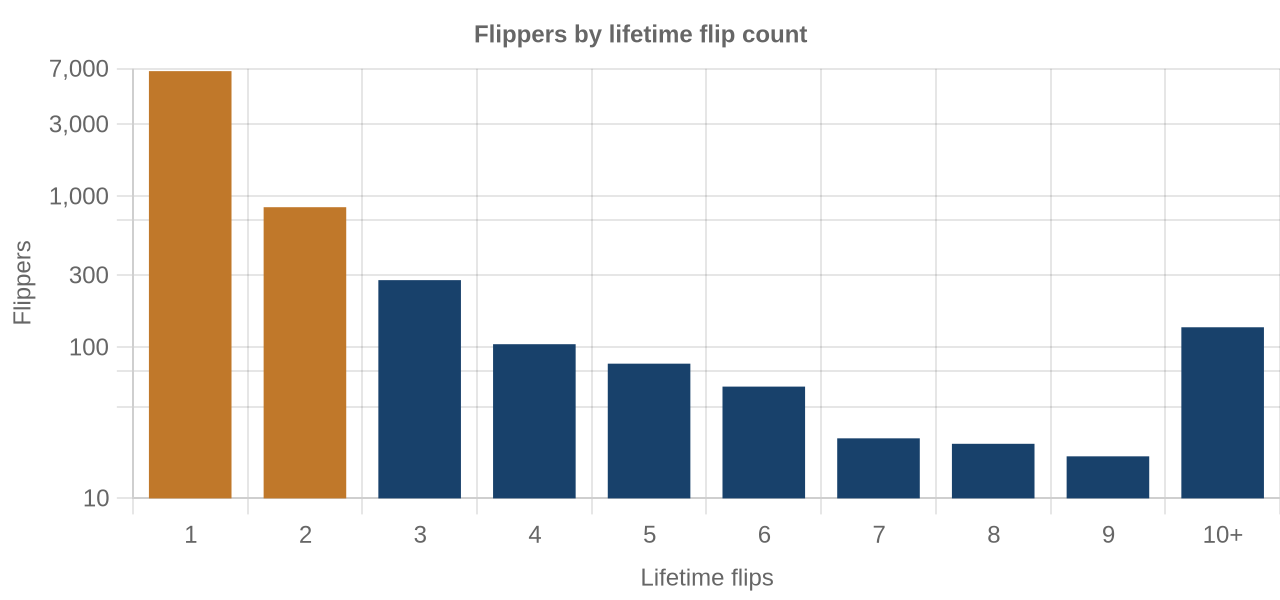
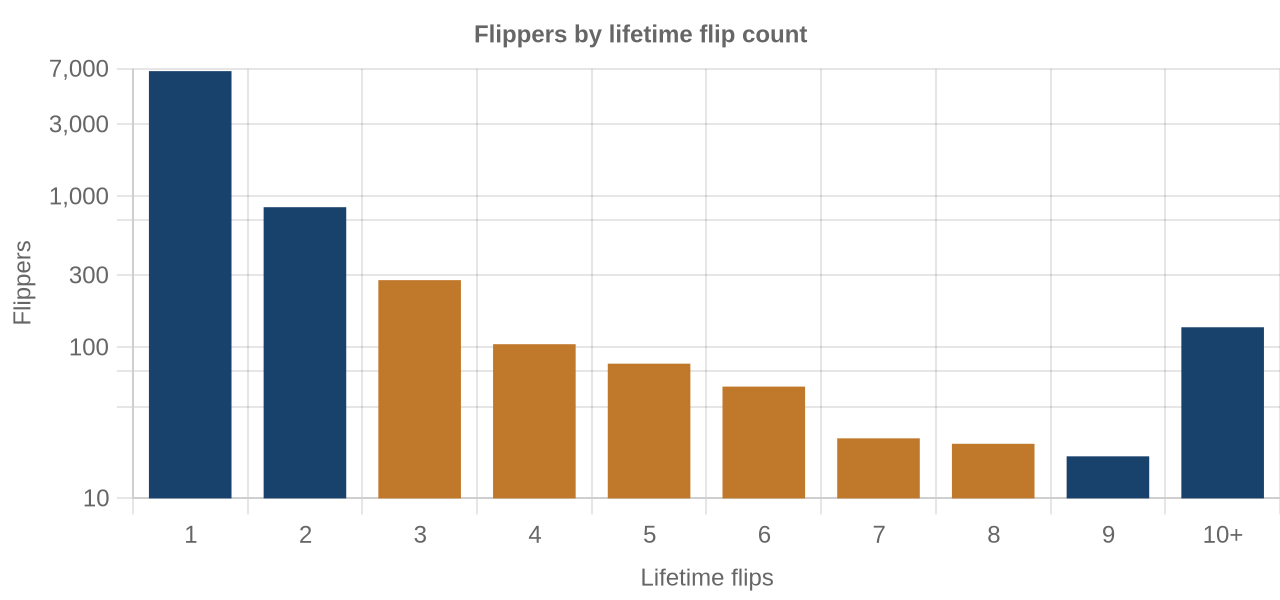
austin: 202608 edition

Changed region(s): [[0.0938, 0.12, 0.8125, 0.84]]

diff --git a/austin/202608/index.html b/austin/202608/index.html
@@ -315,34 +315,34 @@
   <!-- AGENT:flipstructure:start -->
 <table class="data">
     <thead><tr><th>Flip market structure</th><th class="num">Same months last year</th><th class="num">This edition</th></tr></thead><tbody>
-      <tr><td>Flips sold</td><td class="num">217</td><td class="num">115</td></tr>
-      <tr><td>Median sale</td><td class="num">$400,995</td><td class="num">$315,748</td></tr>
-      <tr><td>Median $/sqft</td><td class="num">$225</td><td class="num">$144</td></tr>
-      <tr><td>Sale vs county-assessed (uplift proxy)</td><td class="num">1.19×</td><td class="num">0.89×</td></tr>
-      <tr><td>Active flippers</td><td class="num">117</td><td class="num">96</td></tr>
-      <tr><td>Top-10 flippers&#39; revenue share</td><td class="num">83%</td><td class="num">87%</td></tr>
-      <tr><td>Concentration (HHI)</td><td class="num">4397</td><td class="num">6227</td></tr>
-      <tr><td>Median house: sqft / beds / built</td><td class="num">1639 / 3 / 1999</td><td class="num">1822 / 3 / 2001</td></tr>
+      <tr><td>Flips sold</td><td class="num">187</td><td class="num">114</td></tr>
+      <tr><td>Median sale</td><td class="num">$359,100</td><td class="num">$315,542</td></tr>
+      <tr><td>Median $/sqft</td><td class="num">$208</td><td class="num">$140</td></tr>
+      <tr><td>Sale vs county-assessed (uplift proxy)</td><td class="num">1.09×</td><td class="num">0.87×</td></tr>
+      <tr><td>Active flippers</td><td class="num">116</td><td class="num">95</td></tr>
+      <tr><td>Top-10 flippers&#39; revenue share</td><td class="num">52%</td><td class="num">40%</td></tr>
+      <tr><td>Concentration (HHI)</td><td class="num">360</td><td class="num">248</td></tr>
+      <tr><td>Median house: sqft / beds / built</td><td class="num">1792 / 3 / 2005</td><td class="num">1828 / 3 / 2001</td></tr>
       <tr><td>Pre-1950 stock share</td><td class="num">2%</td><td class="num">7%</td></tr>
       <tr><td>2–4 unit share</td><td class="num">0%</td><td class="num">1%</td></tr>
-      <tr><td>Median distance from downtown</td><td class="num">22.9 km</td><td class="num">30.6 km</td></tr>
+      <tr><td>Median distance from downtown</td><td class="num">23.8 km</td><td class="num">30.2 km</td></tr>
     </tbody></table>
   <div class="pulse-caveat">Attributed profit per flip (per-investor aggregates, by drop period): Jul 25→Feb 26: 3,658 flips, $1.5M/flip &#183; Feb 26→Jun 26: 915 flips, n/a (revisions) &#183; Jun 26→Aug 26: 321 flips, n/a (revisions).</div>
-  <div class="pulse-caveat">County mix (share of flips, last year → this edition): Travis 65%→47% &#183; Williamson 16%→33% &#183; Hays 11%→14% &#183; Bastrop 7%→3% &#183; Caldwell 1%→3%.</div>
-  <div class="pulse-caveat">Biggest zip share moves: Downtown Austin 10.6%→0.0% &#183; Pflugerville 9.2%→1.7% &#183; Mueller / Windsor Park 6.0%→0.9% &#183; Georgetown West 1.8%→7.0% &#183; Kyle 3.2%→7.8% &#183; Buda 4.1%→0.0%.</div>
+  <div class="pulse-caveat">County mix (share of flips, last year → this edition): Travis 59%→47% &#183; Williamson 19%→33% &#183; Hays 13%→13% &#183; Bastrop 8%→4% &#183; Caldwell 1%→3%.</div>
+  <div class="pulse-caveat">Biggest zip share moves: Pflugerville 10.7%→1.8% &#183; Georgetown West 2.1%→7.0% &#183; Buda 4.8%→0.0% &#183; Kyle 3.7%→7.0% &#183; Wimberley 0.5%→3.5% &#183; South Austin / Westgate 2.7%→5.3%.</div>
       <!-- AGENT:flipstructure:end -->
 
   <h2 class="section-title" id="flipper-profile">Flipper Profile — The Working Flipper</h2>
   <!-- AGENT:flipperprofile:start -->
-<p class="section-sub">The 70th–90th percentile of local flippers by lifetime flip count — the established operators below the whales: 1–2 lifetime flips each. Bath counts are not in the assessor extract.</p>
+<p class="section-sub">The 70th–90th percentile of local flippers by lifetime flip count — the established operators below the whales: 3–8 lifetime flips each. Bath counts are not in the assessor extract.</p>
 <div class="card-grid">
-    <div class="card"><h3>7,603</h3><div class="meta">Flippers in the band</div><div class="body">each with 1–2 lifetime flips (avg 1.1)</div></div>
-    <div class="card"><h3>$231,675</h3><div class="meta">Avg profit per flip</div><div class="body">lifetime average, per-investor aggregates</div></div>
-    <div class="card"><h3>6.4 mo</h3><div class="meta">Time between sales</div><div class="body">median gap between recorded flip sales (196 days)</div></div>
-    <div class="card"><h3>1945 sqft &#183; 4 bd</h3><div class="meta">Typical house</div><div class="body">median year built 2003</div></div>
+    <div class="card"><h3>565</h3><div class="meta">Flippers in the band</div><div class="body">each with 3–8 lifetime flips (avg 4.1)</div></div>
+    <div class="card"><h3>$518,076</h3><div class="meta">Avg profit per flip</div><div class="body">lifetime average, per-investor aggregates</div></div>
+    <div class="card"><h3>5.3 mo</h3><div class="meta">Time between sales</div><div class="body">median gap between recorded flip sales (160 days)</div></div>
+    <div class="card"><h3>1827 sqft &#183; 3 bd</h3><div class="meta">Typical house</div><div class="body">median year built 1996</div></div>
 </div>
-<div class="pulse-caveat">Where they work: Leander (78641) 5% &#183; South Austin / Westgate (78745) 4% &#183; Pflugerville (78660) 4% &#183; Georgetown West (78628) 4% &#183; Bastrop (78602) 3%.</div>
-<div class="map-panel"><img src="../img/flippercurve_2026-05..2026-06.png" alt="Flippers by lifetime flip count, profile band highlighted"><div class="caption">Local flippers by lifetime flip count. Orange bars = the profiled 70th–90th percentile band (1–2 flips).</div></div>
+<div class="pulse-caveat">Where they work: South Austin / Westgate (78745) 7% &#183; Mueller / Windsor Park (78723) 4% &#183; Bastrop (78602) 4% &#183; Lago Vista (78645) 3% &#183; Manor (78653) 3%.</div>
+<div class="map-panel"><img src="../img/flippercurve_2026-05..2026-06.png" alt="Flippers by lifetime flip count, profile band highlighted"><div class="caption">Local flippers by lifetime flip count. Orange bars = the profiled 70th–90th percentile band (3–8 flips).</div></div>
       <!-- AGENT:flipperprofile:end -->
 
   <h2 class="section-title" id="market-pulse">Market Pulse</h2>

diff --git a/austin/index.html b/austin/index.html
@@ -315,34 +315,34 @@
   <!-- AGENT:flipstructure:start -->
 <table class="data">
     <thead><tr><th>Flip market structure</th><th class="num">Same months last year</th><th class="num">This edition</th></tr></thead><tbody>
-      <tr><td>Flips sold</td><td class="num">217</td><td class="num">115</td></tr>
-      <tr><td>Median sale</td><td class="num">$400,995</td><td class="num">$315,748</td></tr>
-      <tr><td>Median $/sqft</td><td class="num">$225</td><td class="num">$144</td></tr>
-      <tr><td>Sale vs county-assessed (uplift proxy)</td><td class="num">1.19×</td><td class="num">0.89×</td></tr>
-      <tr><td>Active flippers</td><td class="num">117</td><td class="num">96</td></tr>
-      <tr><td>Top-10 flippers&#39; revenue share</td><td class="num">83%</td><td class="num">87%</td></tr>
-      <tr><td>Concentration (HHI)</td><td class="num">4397</td><td class="num">6227</td></tr>
-      <tr><td>Median house: sqft / beds / built</td><td class="num">1639 / 3 / 1999</td><td class="num">1822 / 3 / 2001</td></tr>
+      <tr><td>Flips sold</td><td class="num">187</td><td class="num">114</td></tr>
+      <tr><td>Median sale</td><td class="num">$359,100</td><td class="num">$315,542</td></tr>
+      <tr><td>Median $/sqft</td><td class="num">$208</td><td class="num">$140</td></tr>
+      <tr><td>Sale vs county-assessed (uplift proxy)</td><td class="num">1.09×</td><td class="num">0.87×</td></tr>
+      <tr><td>Active flippers</td><td class="num">116</td><td class="num">95</td></tr>
+      <tr><td>Top-10 flippers&#39; revenue share</td><td class="num">52%</td><td class="num">40%</td></tr>
+      <tr><td>Concentration (HHI)</td><td class="num">360</td><td class="num">248</td></tr>
+      <tr><td>Median house: sqft / beds / built</td><td class="num">1792 / 3 / 2005</td><td class="num">1828 / 3 / 2001</td></tr>
       <tr><td>Pre-1950 stock share</td><td class="num">2%</td><td class="num">7%</td></tr>
       <tr><td>2–4 unit share</td><td class="num">0%</td><td class="num">1%</td></tr>
-      <tr><td>Median distance from downtown</td><td class="num">22.9 km</td><td class="num">30.6 km</td></tr>
+      <tr><td>Median distance from downtown</td><td class="num">23.8 km</td><td class="num">30.2 km</td></tr>
     </tbody></table>
   <div class="pulse-caveat">Attributed profit per flip (per-investor aggregates, by drop period): Jul 25→Feb 26: 3,658 flips, $1.5M/flip &#183; Feb 26→Jun 26: 915 flips, n/a (revisions) &#183; Jun 26→Aug 26: 321 flips, n/a (revisions).</div>
-  <div class="pulse-caveat">County mix (share of flips, last year → this edition): Travis 65%→47% &#183; Williamson 16%→33% &#183; Hays 11%→14% &#183; Bastrop 7%→3% &#183; Caldwell 1%→3%.</div>
-  <div class="pulse-caveat">Biggest zip share moves: Downtown Austin 10.6%→0.0% &#183; Pflugerville 9.2%→1.7% &#183; Mueller / Windsor Park 6.0%→0.9% &#183; Georgetown West 1.8%→7.0% &#183; Kyle 3.2%→7.8% &#183; Buda 4.1%→0.0%.</div>
+  <div class="pulse-caveat">County mix (share of flips, last year → this edition): Travis 59%→47% &#183; Williamson 19%→33% &#183; Hays 13%→13% &#183; Bastrop 8%→4% &#183; Caldwell 1%→3%.</div>
+  <div class="pulse-caveat">Biggest zip share moves: Pflugerville 10.7%→1.8% &#183; Georgetown West 2.1%→7.0% &#183; Buda 4.8%→0.0% &#183; Kyle 3.7%→7.0% &#183; Wimberley 0.5%→3.5% &#183; South Austin / Westgate 2.7%→5.3%.</div>
       <!-- AGENT:flipstructure:end -->
 
   <h2 class="section-title" id="flipper-profile">Flipper Profile — The Working Flipper</h2>
   <!-- AGENT:flipperprofile:start -->
-<p class="section-sub">The 70th–90th percentile of local flippers by lifetime flip count — the established operators below the whales: 1–2 lifetime flips each. Bath counts are not in the assessor extract.</p>
+<p class="section-sub">The 70th–90th percentile of local flippers by lifetime flip count — the established operators below the whales: 3–8 lifetime flips each. Bath counts are not in the assessor extract.</p>
 <div class="card-grid">
-    <div class="card"><h3>7,603</h3><div class="meta">Flippers in the band</div><div class="body">each with 1–2 lifetime flips (avg 1.1)</div></div>
-    <div class="card"><h3>$231,675</h3><div class="meta">Avg profit per flip</div><div class="body">lifetime average, per-investor aggregates</div></div>
-    <div class="card"><h3>6.4 mo</h3><div class="meta">Time between sales</div><div class="body">median gap between recorded flip sales (196 days)</div></div>
-    <div class="card"><h3>1945 sqft &#183; 4 bd</h3><div class="meta">Typical house</div><div class="body">median year built 2003</div></div>
+    <div class="card"><h3>565</h3><div class="meta">Flippers in the band</div><div class="body">each with 3–8 lifetime flips (avg 4.1)</div></div>
+    <div class="card"><h3>$518,076</h3><div class="meta">Avg profit per flip</div><div class="body">lifetime average, per-investor aggregates</div></div>
+    <div class="card"><h3>5.3 mo</h3><div class="meta">Time between sales</div><div class="body">median gap between recorded flip sales (160 days)</div></div>
+    <div class="card"><h3>1827 sqft &#183; 3 bd</h3><div class="meta">Typical house</div><div class="body">median year built 1996</div></div>
 </div>
-<div class="pulse-caveat">Where they work: Leander (78641) 5% &#183; South Austin / Westgate (78745) 4% &#183; Pflugerville (78660) 4% &#183; Georgetown West (78628) 4% &#183; Bastrop (78602) 3%.</div>
-<div class="map-panel"><img src="img/flippercurve_2026-05..2026-06.png" alt="Flippers by lifetime flip count, profile band highlighted"><div class="caption">Local flippers by lifetime flip count. Orange bars = the profiled 70th–90th percentile band (1–2 flips).</div></div>
+<div class="pulse-caveat">Where they work: South Austin / Westgate (78745) 7% &#183; Mueller / Windsor Park (78723) 4% &#183; Bastrop (78602) 4% &#183; Lago Vista (78645) 3% &#183; Manor (78653) 3%.</div>
+<div class="map-panel"><img src="img/flippercurve_2026-05..2026-06.png" alt="Flippers by lifetime flip count, profile band highlighted"><div class="caption">Local flippers by lifetime flip count. Orange bars = the profiled 70th–90th percentile band (3–8 flips).</div></div>
       <!-- AGENT:flipperprofile:end -->
 
   <h2 class="section-title" id="market-pulse">Market Pulse</h2>
